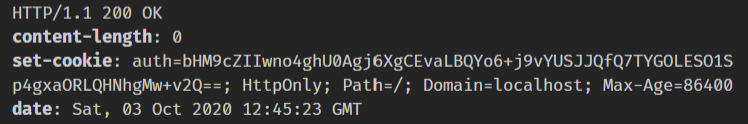
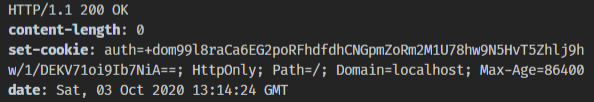
TESTING LOGGED IN USER

diff --git a/README.md b/README.md
@@ -1,10 +1,12 @@
-# [Tutorial][Tutorial]
-
 [Tutorial]: https://gill.net.in/posts/auth-microservice-rust-actix-web1.0-diesel-complete-tutorial/
 [SparkPost]: https://www.sparkpost.com/
 [お名前.com]: https://www.onamae.com/
 [Sending Domains]: https://app.sparkpost.com/account/sending-domains
 [DNSレコード設定]: https://www.onamae.com/domain/navi/dns_controll/input
+
+# What's this
+
+A server created basically according to [THIS TUTORIAL][Tutorial]
 
 # How to run
 
@@ -24,45 +26,16 @@ cargo run
 
 ## client
 
+[Here](#test-your-implementation) is
 * Invitation request
-```
-curl --request POST \
-  --url http://localhost:3000/api/invitation \
-  --header 'content-type: application/json' \
-  --data '{"email":"name@domain.com"}'
-```
-
-![invited](images/invited.png)
-
 * Registration request
-```
-curl --request POST \
-  --url http://localhost:3000/api/register/964e9cc1-78af-4ca6-9d63-86f578086b4e \
-  --header 'content-type: application/json' \
-  --data '{"password":"password"}'
-```
 
-![registered](images/registered.png)
-
+[Here](#testing-logged-in-user) is
 * Login request
-```
-curl -i --request POST \
-  --url http://localhost:3000/api/auth \
-  --header 'content-type: application/json' \
-  --data '{"email": "name@domain.com","password":"password"}'
-```
-
-![logged_in](images/logged_in.png)
-
+* Get-me request
 * Logout request
-```
-curl -i --request DELETE \
-  --url http://localhost:3000/api/auth
-```
 
-![logged_out](images/logged_out.png)
-
-# Log
+# Study log
 
 ## PREREQUISITE
 
@@ -201,6 +174,7 @@ curl --request POST \
 
 ## TEST YOUR IMPLEMENTATION
 
+* Invitation request
 ```
 curl --request POST \
   --url http://localhost:3000/api/invitation \
@@ -210,6 +184,7 @@ curl --request POST \
 
 ![invited](images/invited.png)
 
+* Registration request
 ```
 curl --request POST \
   --url http://localhost:3000/api/register/964e9cc1-78af-4ca6-9d63-86f578086b4e \
@@ -225,6 +200,9 @@ curl --request POST \
 
 ## TEST RUN AUTH
 
+## TESTING LOGGED IN USER
+
+* Login request
 ```
 curl -i --request POST \
   --url http://localhost:3000/api/auth \
@@ -234,6 +212,17 @@ curl -i --request POST \
 
 ![logged_in](images/logged_in.png)
 
+* Get-me request
+```
+curl -i -n --request GET \
+  --url http://localhost:3000/api/auth \
+  --cookie auth=+dom99l8raCa6EG2poRFhdfdhCNGpmZoRm2M1U78hw9N5HvT5Zhlj9hw/1/DEKV71oi9Ib7NiA== \
+; echo
+```
+
+![get_me](images/get_me.png)
+
+* Logout request
 ```
 curl -i --request DELETE \
   --url http://localhost:3000/api/auth
@@ -241,4 +230,6 @@ curl -i --request DELETE \
 
 ![logged_out](images/logged_out.png)
 
-## TESTING LOGGED IN USER
+## WHAT’S NEXT
+
+とりあえず雪見だいふくを食べよう
